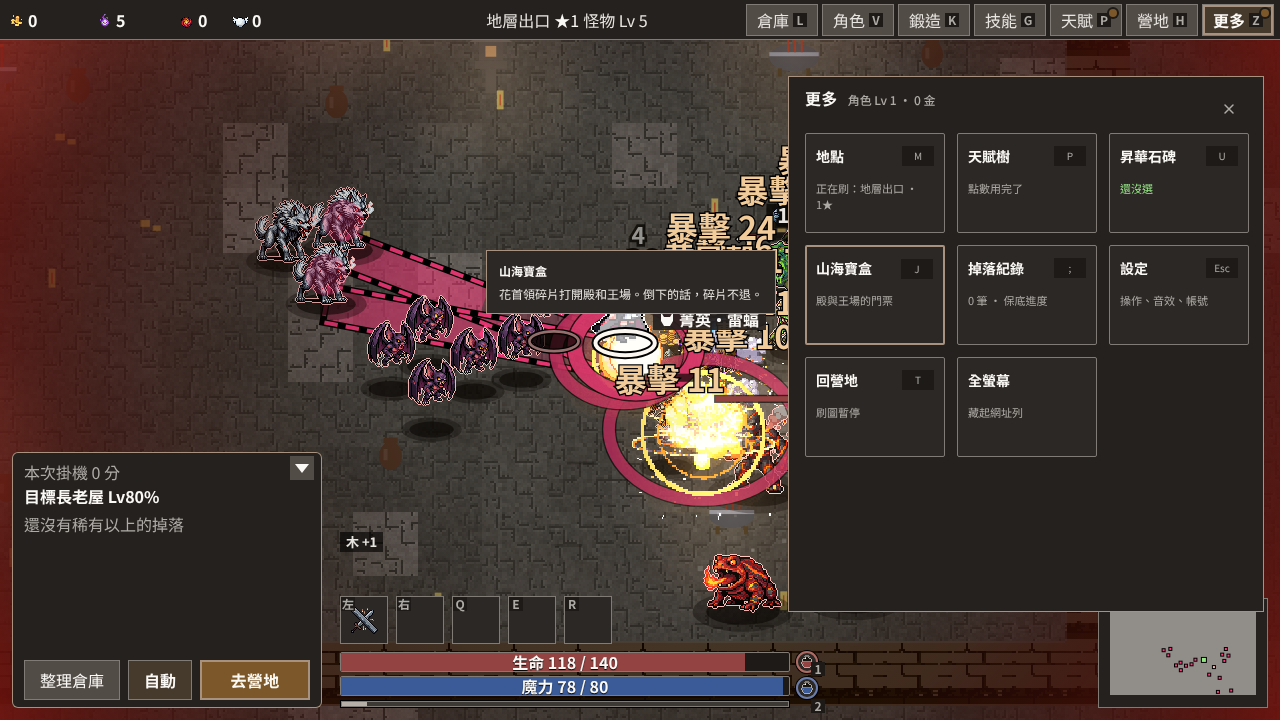
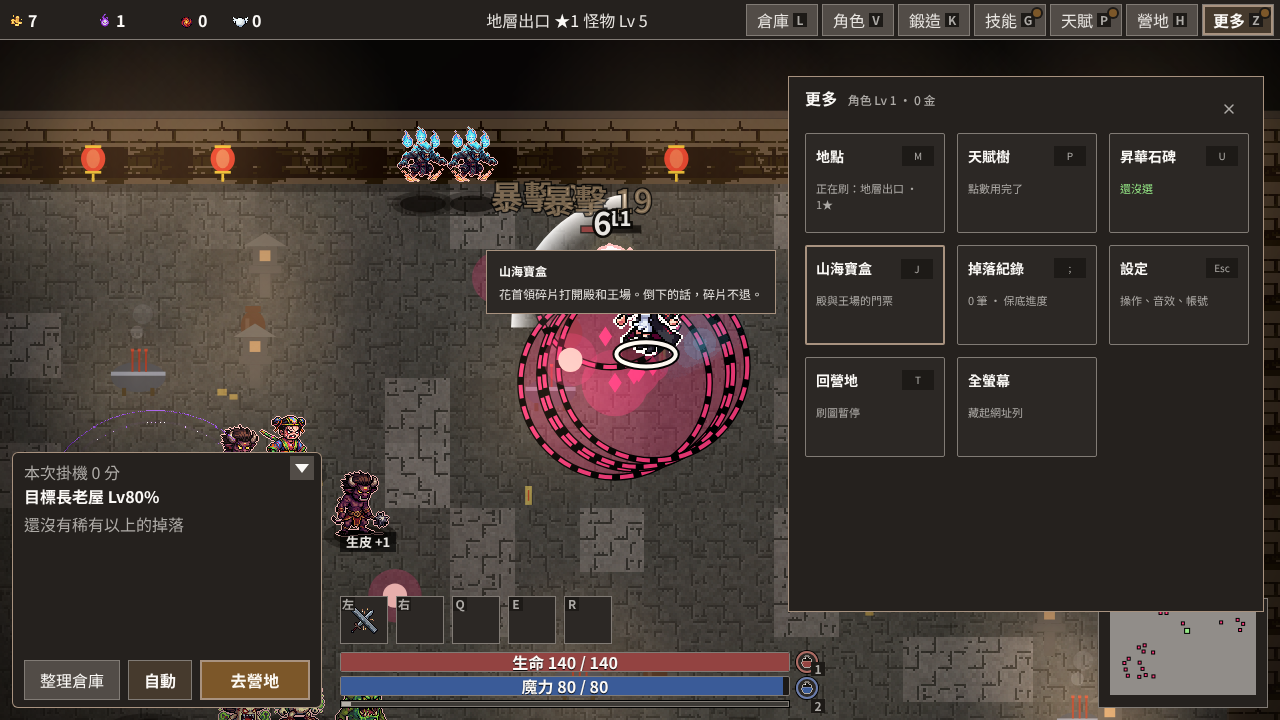
修 check.js：#acf 改 #authcf（像色碼）、T02 陰影改 token、設定分段鈕熱區改透明上下框；check.js 更多不列追逐物品照 M01 定案；重拍 shots-1127
Claude-Session: https://claude.ai/code/session_01LdUmBL8nekTpqtjmaXUZxB

diff --git a/css/style.css b/css/style.css
@@ -4401,11 +4401,12 @@ body.d12 #pset .setc2 { left: 431px; width: 416px; }
 body.d12 #pset .setc3 { left: 871px; width: 344px; }
 body.d12 #pset .ph2 { margin: 0; padding: 0; height: 22px; font: 700 12px/16px var(--font); color: var(--tx-strong); border: 0; background: none; }
 body.d12 #pset .ph2 > span { font: 400 11px/16px var(--font); color: var(--tx-dim); margin-left: 8px; }
-body.d12 #pset .gkind { display: flex; gap: 12px; margin: 0 0 12px; }
-body.d12 #pset .gkind .btn { position: relative; width: 120px; height: 32px; min-height: 0; padding: 0; font: 400 12px/1 var(--font); color: var(--tx); background: var(--btn2); border: 1px solid transparent; border-radius: 0; box-shadow: none; }
-body.d12 #pset .gkind .btn::after { content: ''; position: absolute; inset: -6px 0; }
-body.d12 #pset .gkind .btn.on { color: var(--tx-strong); background: var(--sel-bg); border: 2px solid var(--sel-edge); box-shadow: none; font-weight: 700; }
-body.d12 #pset .setc1 > .gkind:first-of-type .btn { width: 180px; height: 44px; display: flex; flex-direction: column; align-items: center; justify-content: center; gap: 2px; }
+body.d12 #pset .gkind { display: flex; gap: 12px; margin: -6px 0 6px; }
+/* 看起來 120×32、熱區 44 高：上下 6 px 透明框、底只畫在 padding 內；選中框用 inset 陰影 */
+body.d12 #pset .gkind .btn { position: relative; width: 120px; height: 44px; min-height: 0; padding: 0; font: 400 12px/1 var(--font); color: var(--tx); background: var(--btn2); background-clip: padding-box; border: 0; border-top: 6px solid transparent; border-bottom: 6px solid transparent; border-radius: 0; box-shadow: none; }
+body.d12 #pset .gkind .btn.on { color: var(--tx-strong); background: var(--sel-bg); background-clip: padding-box; box-shadow: inset 0 0 0 2px var(--sel-edge); font-weight: 700; }
+body.d12 #pset .setc1 > .gkind:first-of-type { margin-top: 0; }
+body.d12 #pset .setc1 > .gkind:first-of-type .btn { width: 180px; height: 44px; border: 0; display: flex; flex-direction: column; align-items: center; justify-content: center; gap: 2px; }
 body.d12 #pset .gkind .btn small { font: 400 11px/14px var(--font); color: var(--tx); }
 body.d12 #pset .sethint { margin: -4px 0 0; font: 400 11px/16px var(--font); color: var(--tx-dim); }
 body.d12 #pset .keyl { margin: 2px 0 0; display: grid; grid-template-columns: 112px 1fr; gap: 0; }
@@ -4423,35 +4424,35 @@ body.d12 #pset .acct .lnk { justify-self: start; height: auto; padding: 4px 0; b
 body.d12 #pset .acct.row .btn { width: 100px; height: 32px; }
 body.d12 #scrim:not([hidden]) { background: none; }
 /* 登入覆蓋確認卡（S02）：暗幕 --d2-scrim；主鈕取消（預設焦點）；危險次鈕 --panel-raised＋2px --bad＋--bad 字 */
-#acf { position: fixed; inset: 0; z-index: 80; }
-#acf[hidden] { display: none; }
-#acf .acfs { position: absolute; inset: 0; background: var(--d2-scrim); }
-body.d12 #acf .acfs { inset: 76px auto auto 16px; width: 1248px; height: 536px; }
-body.d12 #acf .acfs::before { content: ''; position: fixed; inset: 0; z-index: -1; }
-#acf .acf { position: absolute; left: 50%; top: 50%; transform: translate(-50%, -50%); width: min(600px, calc(100vw - 24px)); box-sizing: border-box; padding: 18px 24px; display: grid; grid-template-columns: 1fr 1fr; gap: 12px; background: var(--panel); border: 2px solid var(--panel-edge); color: var(--tx); font-family: var(--font); }
-#acf .acf > b, #acf .acf > p, #acf .acfw { grid-column: 1 / -1; margin: 0; }
-#acf .acf > b { font: 700 16px/22px var(--font); color: var(--tx-strong); }
-#acf .acfd { font: 400 13px/20px var(--font); color: var(--tx); }
-#acf .acfo { font: 400 12px/18px var(--font); color: var(--tx-dim); }
-#acf .acfw { padding: 8px 12px; background: var(--panel-inset); border: 1px solid var(--bad); }
-#acf .acfw b { display: block; font: 700 12px/18px var(--font); color: var(--bad); }
-#acf .acfw small { font: 400 11px/16px var(--font); color: var(--tx); }
-#acf .acf .btn { min-height: 44px; border-radius: 0; box-shadow: none; font: 700 12px/1 var(--font); }
-#acf .acfy { background: var(--panel-raised); border: 2px solid var(--bad); color: var(--bad); }
-#acf .acfn { background: var(--act); border: 0; color: var(--on-act); }
-body.d12 #acf .acf { left: 340px; top: 170px; transform: none; width: 600px; height: 310px; padding: 0; display: block; }
-body.d12 #acf .acf > b { position: absolute; left: 22px; top: 16px; }
-body.d12 #acf .acfd { position: absolute; left: 22px; top: 50px; width: 552px; }
-body.d12 #acf .acfo { position: absolute; left: 22px; top: 102px; width: 552px; }
-body.d12 #acf .acfw { position: absolute; left: 22px; top: 148px; width: 552px; height: 52px; box-sizing: border-box; padding: 6px 12px; }
-body.d12 #acf .acfy { position: absolute; left: 22px; top: 244px; width: 220px; height: 44px; }
-body.d12 #acf .acfn { position: absolute; left: 394px; top: 244px; width: 180px; height: 44px; }
+#authcf { position: fixed; inset: 0; z-index: 80; }
+#authcf[hidden] { display: none; }
+#authcf .acfs { position: absolute; inset: 0; background: var(--d2-scrim); }
+body.d12 #authcf .acfs { inset: 76px auto auto 16px; width: 1248px; height: 536px; }
+body.d12 #authcf .acfs::before { content: ''; position: fixed; inset: 0; z-index: -1; }
+#authcf .acf { position: absolute; left: 50%; top: 50%; transform: translate(-50%, -50%); width: min(600px, calc(100vw - 24px)); box-sizing: border-box; padding: 18px 24px; display: grid; grid-template-columns: 1fr 1fr; gap: 12px; background: var(--panel); border: 2px solid var(--panel-edge); color: var(--tx); font-family: var(--font); }
+#authcf .acf > b, #authcf .acf > p, #authcf .acfw { grid-column: 1 / -1; margin: 0; }
+#authcf .acf > b { font: 700 16px/22px var(--font); color: var(--tx-strong); }
+#authcf .acfd { font: 400 13px/20px var(--font); color: var(--tx); }
+#authcf .acfo { font: 400 12px/18px var(--font); color: var(--tx-dim); }
+#authcf .acfw { padding: 8px 12px; background: var(--panel-inset); border: 1px solid var(--bad); }
+#authcf .acfw b { display: block; font: 700 12px/18px var(--font); color: var(--bad); }
+#authcf .acfw small { font: 400 11px/16px var(--font); color: var(--tx); }
+#authcf .acf .btn { min-height: 44px; border-radius: 0; box-shadow: none; font: 700 12px/1 var(--font); }
+#authcf .acfy { background: var(--panel-raised); border: 2px solid var(--bad); color: var(--bad); }
+#authcf .acfn { background: var(--act); border: 0; color: var(--on-act); }
+body.d12 #authcf .acf { left: 340px; top: 170px; transform: none; width: 600px; height: 310px; padding: 0; display: block; }
+body.d12 #authcf .acf > b { position: absolute; left: 22px; top: 16px; }
+body.d12 #authcf .acfd { position: absolute; left: 22px; top: 50px; width: 552px; }
+body.d12 #authcf .acfo { position: absolute; left: 22px; top: 102px; width: 552px; }
+body.d12 #authcf .acfw { position: absolute; left: 22px; top: 148px; width: 552px; height: 52px; box-sizing: border-box; padding: 6px 12px; }
+body.d12 #authcf .acfy { position: absolute; left: 22px; top: 244px; width: 220px; height: 44px; }
+body.d12 #authcf .acfn { position: absolute; left: 394px; top: 244px; width: 180px; height: 44px; }
 /* T02 開場標題（small-screens-spec-2 §T02）：1 背景圖 cover 置中 → 2 全畫面 62% 暗調遮罩（不可調淡）→ 標題與開始在安全區 360,232 560×208；壓圖字只用 --tx-strong／--tx */
 #ivg { background: var(--panel-inset); }
 #ivg .ivbg { position: absolute; inset: 0; width: 100%; height: 100%; object-fit: cover; object-position: center; image-rendering: pixelated; }
 #ivg .ivsc { position: absolute; inset: 0; background: var(--d2-scrim); }
 #ivg h1, #ivg #ivgo { position: relative; z-index: 1; }
-#ivg h1 { color: var(--tx-strong); text-shadow: 0 2px 6px #000; }
+#ivg h1 { color: var(--tx-strong); text-shadow: 0 2px 6px var(--d2-black); }
 #ivg #ivgo { min-width: 160px; min-height: 48px; background: var(--act); color: var(--on-act); border: 0; border-radius: 0; box-shadow: none; }
 body:not(.touch) #ivg { display: block; }
 body:not(.touch) #ivg h1 { position: absolute; left: 50%; top: calc(50% - 82px); transform: translateX(-50%); white-space: nowrap; line-height: 56px; font-size: 48px; }
@@ -4463,7 +4464,7 @@ body.d12 #pset .ph2 > span.zterm { margin-left: 0; font: inherit; color: inherit
 #poff .offl li.ch > i { box-sizing: border-box; min-width: 20px; height: 20px; padding: 0 3px; font: 400 10px/18px var(--font); font-style: normal; text-align: center; color: var(--tx-dim); background: var(--panel-inset); border: 1px solid var(--border); }
 body.d12 #pguild .gsh .gall::after { inset: -8px 0; }
 body.d12 #pguild > .ph .x::after { content: ''; position: absolute; inset: -4px -2px; }
-/* 卡片類（C01、D01、O01）：--btn2 鈕內第二行一律 --tx（--tx-dim 在 --btn2 上只有 3.70:1，PR #213 教訓）；D01 標題不用紅 */
+/* 卡片類（C01、D01、O01）：--btn2 鈕內第二行一律 --tx（--tx-dim 在 --btn2 上只有 3.70:1，PR 213 教訓）；D01 標題不用紅 */
 #over .btn:not(.pri) small, #poff .btn:not(.pri) small, #poff .btn:not(.pri) kbd { color: var(--tx); }
 #over .card.dead h2 { color: var(--tx-strong); }
 #pset .gkind .btn small { color: var(--tx); }

diff --git a/tools/gs_check.js b/tools/gs_check.js
@@ -550,10 +550,10 @@ const CONTRAST = `(() => {
     });
     await p.waitForTimeout(200);
     const c = await p.evaluate(`(() => {
-      const A = $('acf'), y = A.querySelector('.acfy'), n = A.querySelector('.acfn'), w = A.querySelector('.acfw');
+      const A = $('authcf'), y = A.querySelector('.acfy'), n = A.querySelector('.acfn'), w = A.querySelector('.acfw');
       return { on: !A.hidden, t: A.textContent, focus: document.activeElement === n, nPri: n.classList.contains('pri'),
         yB: getComputedStyle(y).borderTopColor, yC: getComputedStyle(y).color, yBg: getComputedStyle(y).backgroundColor, wB: getComputedStyle(w).borderTopColor,
-        cr: [...A.querySelectorAll('b, p, small, .btn')].map(e => +__cr(e).toFixed(2)), inV: (${inView})('#acf .btn'),
+        cr: [...A.querySelectorAll('b, p, small, .btn')].map(e => +__cr(e).toFixed(2)), inV: (${inView})('#authcf .btn'),
         yL: y.getBoundingClientRect().left < n.getBoundingClientRect().left };
     })()`);
     ok(
@@ -580,18 +580,18 @@ const CONTRAST = `(() => {
     ok('登入 S02 卡內字／底對比 ≥ 4.5、兩顆鈕在畫面內', c.cr.every(x => x >= 4.5) && c.inV, JSON.stringify(c.cr));
     await snap(p, 'small-screens', 'S02-實機');
     const lv0 = await p.evaluate(() => S.lv);
-    await tapOrClick(p, '#acf .acfn');
+    await tapOrClick(p, '#authcf .acfn');
     await p.waitForTimeout(300);
-    const cx = await p.evaluate(() => [$('acf').hidden, window.__used, S.lv]);
+    const cx = await p.evaluate(() => [$('authcf').hidden, window.__used, S.lv]);
     ok(
       '登入 S02 取消：卡關掉、不載入雲端存檔、本機進度不變',
       cx[0] && cx[1] === 0 && cx[2] === lv0,
       JSON.stringify(cx)
     );
     await p.evaluate(() => authCfAsk({ v: 12, lv: 52 }, 'login'));
-    await tapOrClick(p, '#acf .acfy');
+    await tapOrClick(p, '#authcf .acfy');
     await p.waitForTimeout(300);
-    const cy = await p.evaluate(() => [$('acf').hidden, window.__used]);
+    const cy = await p.evaluate(() => [$('authcf').hidden, window.__used]);
     ok('登入 S02 按一下「確認登入並覆蓋」就執行（無長按）', cy[0] && cy[1] === 1, JSON.stringify(cy));
     const gh = await p.evaluate(() => {
       const a = [S.lv, S.xp, S.inv.items.length];

diff --git a/tools/check.js b/tools/check.js
@@ -11390,14 +11390,15 @@ const ASC_COMBOS = `const combos = k => {
     navF = fnOf(hud, 'navHTML');
   /* battle-hud v1.3.3（mumi 15:14、18:45）取代 M2-12 的 6 格：7 格、倉庫獨立（桌機 L）；追逐物品仍在「更多」；角色頁的「角色｜倉庫」切換照留 */
   ok(
-    'battle-hud v1.3.3 分頁：倉庫・角色・鍛造・技能・天賦・營地・更多（7 格位置固定）；天賦照祭壇（沒開畫鎖頭）；沒有追逐物品分頁（追逐物品在「更多」與 Y 鍵）；角色頁有「角色｜倉庫」切換',
+    'battle-hud v1.3.3 分頁：倉庫・角色・鍛造・技能・天賦・營地・更多（7 格位置固定）；天賦照祭壇（沒開畫鎖頭）；沒有追逐物品分頁；更多也沒有追逐物品格（small-screens M01：改從倉庫 › 特殊物品與 Y 鍵進）；角色頁有「角色｜倉庫」切換',
     navK.join() === 'bag,char,forge,skill,tree,craft,more' &&
       /* 7 格位置固定：天賦沒開時畫鎖頭（UIUX 裁定），點了寫解鎖條件 */
       navF.includes("k === 'tree' && !campCan('tree')") &&
       /nlk/.test(navF) &&
       /t === 'tree' && !campCan\('tree'\)\) return hudWarn\(navLockTxt\(\)\)/.test(fnOf(hud, 'navGo')) &&
       !/'chase'|chaseOn/.test(navF) &&
-      /data-tm="f:chase"/.test(fnOf(hud, 'moreHTML')) &&
+      /* small-screens M01（mumi 11/27 定案）：更多拿掉追逐物品格，改從倉庫 › 特殊物品進；Y 鍵照舊（下一條的 fm.Y） */
+      !/f:chase|chaseOn/.test(fnOf(hud, 'moreHTML')) &&
       /\['eq', '角色'\],\s*\['bag', '倉庫'\]/.test(fnOf(hud, 'invHTML')),
     navK.join()
   );

diff --git a/index.html b/index.html
@@ -50,7 +50,7 @@ if (window.caches) caches.keys().then(ks => ks.forEach(k => caches.delete(k))).c
 <nav id="pnav" aria-label="功能" hidden></nav>
 <div id="ptree" hidden></div>
 <div id="over" hidden></div>
-<div id="acf" hidden></div>
+<div id="authcf" hidden></div>
 <div id="tip" hidden></div>
 <div id="ttip" hidden></div>
 <div id="ztip" role="tooltip" hidden></div>

diff --git a/js/cloud.js b/js/cloud.js
@@ -197,7 +197,7 @@ function authCfHTML() {
   <button class="btn acfy" data-acf="1">確認登入並覆蓋</button><button class="btn pri acfn" data-acf="0">取消</button></div>`;
 }
 function authCfDraw() {
-  const el = $('acf');
+  const el = $('authcf');
   if (!el) return;
   el.hidden = !AUTH_CF.on;
   el.innerHTML = AUTH_CF.on ? authCfHTML() : '';
